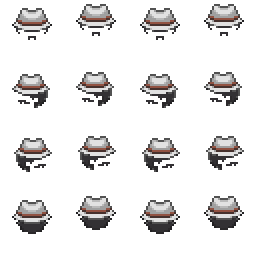
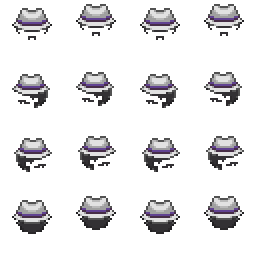
More colors

diff --git a/bodyParts.js b/bodyParts.js
@@ -26,7 +26,7 @@ const bodyParts = {
             'f' : [],
         },
         'gen5' : {
-            'm' : ["1_azul", "1_blanco", "1_cyan", "1_gris", "1_marron", "1_naranja", "1_negro", "1_rojo", "1_rosa", "1_amarillo", "1_verde", "1_violeta", "2_azul", "2_blanco", "2_cyan", "2_gris", "2_marron", "2_naranja", "2_negro", "2_rojo", "2_rosa", "2_amarillo", "2_verde", "2_violeta", "3_azul", "3_blanco", "3_cyan", "3_gris", "3_marron", "3_naranja", "3_negro", "3_rojo", "3_rosa", "3_amarillo", "3_verde", "3_violeta","4_azul", "4_blanco", "4_cyan", "4_gris", "4_marron", "4_naranja", "4_negro", "4_rojo", "4_rosa", "4_amarillo", "4_verde", "4_violeta","5_azul", "5_blanco", "5_cyan", "5_gris", "5_marron", "5_naranja", "5_negro", "5_rojo", "5_rosa", "5_amarillo", "5_verde", "5_violeta", "6_azul", "6_blanco", "6_cyan", "6_gris", "6_marron", "6_naranja", "6_negro", "6_rojo", "6_rosa", "6_amarillo", "6_verde", "6_violeta","7_azul", "7_blanco", "7_cyan", "7_gris", "7_marron", "7_naranja", "7_negro", "7_rojo", "7_rosa", "7_amarillo", "7_verde", "7_violeta", "18_maximo_1", "18_maximo_2", "18_maximo_3", "19_gorra_1","19_gorra_2","19_gorra_3","19_gorra_4","19_gorra_5","19_gorra_6", "20_brendan_1","20_brendan_2","20_brendan_3", "21_marron", "21_blanco"],
+            'm' : ["1_azul", "1_blanco", "1_cyan", "1_gris", "1_marron", "1_naranja", "1_negro", "1_rojo", "1_rosa", "1_amarillo", "1_verde", "1_violeta", "2_azul", "2_blanco", "2_cyan", "2_gris", "2_marron", "2_naranja", "2_negro", "2_rojo", "2_rosa", "2_amarillo", "2_verde", "2_violeta", "3_azul", "3_blanco", "3_cyan", "3_gris", "3_marron", "3_naranja", "3_negro", "3_rojo", "3_rosa", "3_amarillo", "3_verde", "3_violeta","4_azul", "4_blanco", "4_cyan", "4_gris", "4_marron", "4_naranja", "4_negro", "4_rojo", "4_rosa", "4_amarillo", "4_verde", "4_violeta","5_azul", "5_blanco", "5_cyan", "5_gris", "5_marron", "5_naranja", "5_negro", "5_rojo", "5_rosa", "5_amarillo", "5_verde", "5_violeta", "6_azul", "6_blanco", "6_cyan", "6_gris", "6_marron", "6_naranja", "6_negro", "6_rojo", "6_rosa", "6_amarillo", "6_verde", "6_violeta","7_azul", "7_blanco", "7_cyan", "7_gris", "7_marron", "7_naranja", "7_negro", "7_rojo", "7_rosa", "7_amarillo", "7_verde", "7_violeta", "18_maximo_1", "18_maximo_2", "18_maximo_3", "19_gorra_1","19_gorra_2","19_gorra_3","19_gorra_4","19_gorra_5","19_gorra_6", "20_brendan_1","20_brendan_2","20_brendan_3", "21_marron", "21_blanco", "21_morado", "21_azul", "21_naranja"],
             'f' : [],
         }
     },
